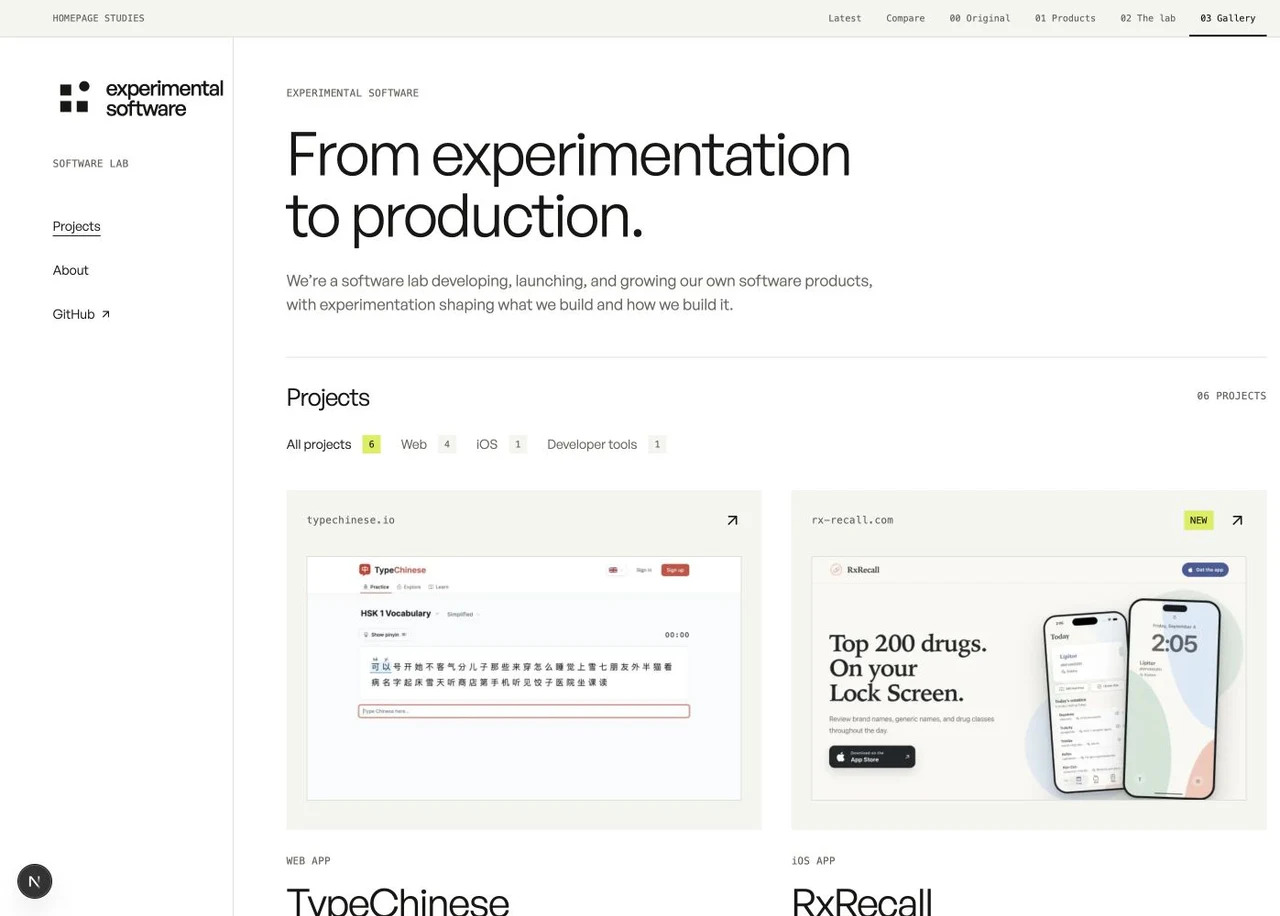
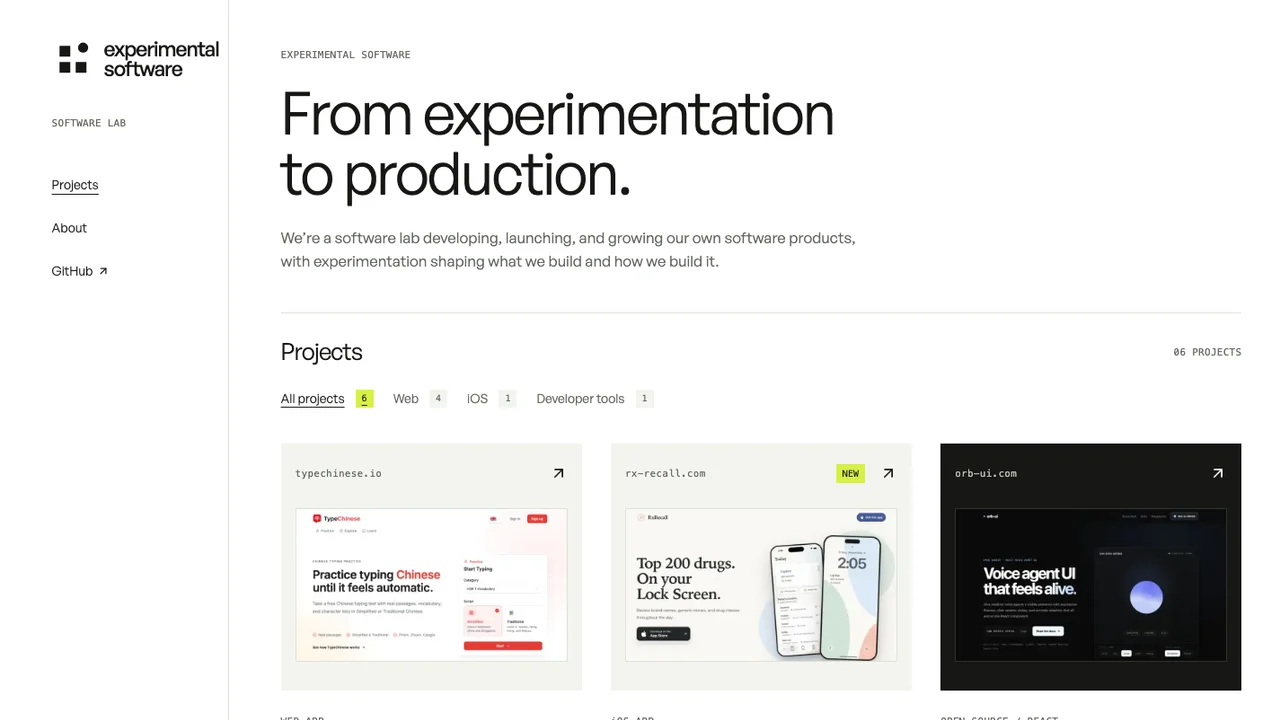
Give all projects equal gallery cards and update previews

diff --git a/src/components/marketing/catalog.ts b/src/components/marketing/catalog.ts
@@ -8,10 +8,9 @@ export type CatalogProject = {
   description: string;
   href: string;
   domain: string;
-  placement: "main" | "additional";
   newRelease?: boolean;
-  image?: string;
-  alt?: string;
+  image: string;
+  alt: string;
 };
 
 // Display order reflects the catalog, not a ranking or an internal maintenance status.
@@ -25,9 +24,8 @@ export const catalog: CatalogProject[] = [
       "Chinese typing practice with vocabulary, real passages, and support for Simplified and Traditional Chinese.",
     href: "https://typechinese.io/",
     domain: "typechinese.io",
-    placement: "main",
-    image: "/marketing/projects/typechinese.webp",
-    alt: "TypeChinese’s Chinese typing practice screen with vocabulary and pinyin hints",
+    image: "/marketing/projects/typechinese-home.webp",
+    alt: "TypeChinese’s landing page introducing Chinese typing practice",
   },
   {
     id: "rxrecall",
@@ -38,7 +36,6 @@ export const catalog: CatalogProject[] = [
       "An iOS study app for pharmacy students, with drug-name review on the Lock Screen and a searchable drug library.",
     href: "https://rx-recall.com/",
     domain: "rx-recall.com",
-    placement: "main",
     newRelease: true,
     image: "/marketing/projects/rxrecall.webp",
     alt: "RxRecall’s product page showing its Today screen and a Lock Screen widget preview",
@@ -52,7 +49,6 @@ export const catalog: CatalogProject[] = [
       "An open-source React component library for voice agents, with expressive visuals and provider integrations.",
     href: "https://orb-ui.com/",
     domain: "orb-ui.com",
-    placement: "main",
     image: "/marketing/projects/orb-ui.webp",
     alt: "Orb UI’s live voice demo with an animated cloud orb and theme controls",
   },
@@ -64,17 +60,19 @@ export const catalog: CatalogProject[] = [
     description: "Test and compare keyboard layouts, including Dvorak and Colemak.",
     href: "https://keyboard.experimental.software/",
     domain: "keyboard.experimental.software",
-    placement: "additional",
+    image: "/marketing/projects/keyboard.webp",
+    alt: "Keyboard Layout Tester with layout choices, typing practice, and an on-screen keyboard",
   },
   {
     id: "flights-currency",
     name: "Google Flights Currency",
     category: "Web",
     format: "BROWSER EXTENSION",
-    description: "View flight prices in local currency on Google Flights.",
+    description: "Keep Google Flights prices in USD instead of changing with your location.",
     href: "https://chromewebstore.google.com/detail/google-flights-currency-s/nameliafoadmpledepdbcgnogcnfiemo",
     domain: "Chrome Web Store",
-    placement: "additional",
+    image: "/marketing/projects/flights-currency.webp",
+    alt: "Google Flights Currency Setter’s published artwork with its name and airplane icon",
   },
   {
     id: "badminton",
@@ -85,6 +83,7 @@ export const catalog: CatalogProject[] = [
       "A badminton racket database for comparing specifications, prices, and popularity.",
     href: "https://badminton.fyi/",
     domain: "badminton.fyi",
-    placement: "additional",
+    image: "/marketing/projects/badminton-detail.webp",
+    alt: "A badminton.fyi racket profile with specifications and price information",
   },
 ];

diff --git a/src/components/marketing/ProjectCatalog.tsx b/src/components/marketing/ProjectCatalog.tsx
@@ -28,18 +28,16 @@ function ProjectCard({
             {project.newRelease && <span className="catalog-new">NEW</span>}
             <ArrowUpRight size={20} aria-hidden="true" />
           </div>
-          {project.image && (
-            <div className={`direction-image direction-image-${project.id}`}>
-              <Image
-                src={project.image}
-                alt={project.alt ?? project.name}
-                width={1280}
-                height={720}
-                sizes="(max-width: 760px) calc(100vw - 80px), (max-width: 1279px) 34vw, 25vw"
-                priority={priority}
-              />
-            </div>
-          )}
+          <div className={`direction-image direction-image-${project.id}`}>
+            <Image
+              src={project.image}
+              alt={project.alt}
+              width={1280}
+              height={720}
+              sizes="(max-width: 760px) calc(100vw - 80px), (max-width: 1279px) 34vw, 25vw"
+              priority={priority}
+            />
+          </div>
         </div>
         <div className="gallery-project-copy">
           <p className="direction-label">{project.format}</p>
@@ -59,8 +57,6 @@ export function ProjectCatalog() {
   const visible = catalog.filter(
     (project) => filter === "All projects" || project.category === filter,
   );
-  const mainProjects = visible.filter((project) => project.placement === "main");
-  const moreProjects = visible.filter((project) => project.placement === "additional");
 
   return (
     <>
@@ -96,7 +92,7 @@ export function ProjectCatalog() {
       </div>
       <div id="project-results">
         <div className="gallery-grid">
-          {mainProjects.map((project) => (
+          {visible.map((project) => (
             <ProjectCard
               key={project.id}
               project={project}
@@ -104,28 +100,6 @@ export function ProjectCatalog() {
             />
           ))}
         </div>
-        {moreProjects.length > 0 && (
-          <section className="catalog-more" aria-labelledby="more-projects-title">
-            <div className="catalog-more-heading">
-              <h2 id="more-projects-title">More projects</h2>
-              <span className="direction-label">
-                {String(moreProjects.length).padStart(2, "0")} PROJECTS
-              </span>
-            </div>
-            {moreProjects.map((project) => (
-              <article key={project.id}>
-                <a href={project.href} aria-label={`Explore ${project.name}`}>
-                  <div>
-                    <span className="direction-label">{project.format}</span>
-                    <h3>{project.name}</h3>
-                    <p>{project.description}</p>
-                  </div>
-                  <ArrowUpRight size={24} aria-hidden="true" />
-                </a>
-              </article>
-            ))}
-          </section>
-        )}
       </div>
     </>
   );

diff --git a/src/components/marketing/gallery-home.css b/src/components/marketing/gallery-home.css
@@ -16,8 +16,7 @@
   font-size: 17px;
   margin-top: 26px;
 }
-.catalog-home .catalog-heading,
-.catalog-home .catalog-more-heading {
+.catalog-home .catalog-heading {
   display: flex;
   align-items: center;
   justify-content: space-between;
@@ -27,8 +26,7 @@
   border-top: 1px solid var(--border);
   padding-top: 28px;
 }
-.catalog-home .catalog-heading h2,
-.catalog-home .catalog-more-heading h2 {
+.catalog-home .catalog-heading h2 {
   font-size: 26px;
 }
 .catalog-home .catalog-toolbar {
@@ -58,6 +56,10 @@
   min-height: 54px;
   padding-bottom: 24px;
 }
+.catalog-home .gallery-project-topline > .direction-label {
+  min-width: 0;
+  overflow-wrap: anywhere;
+}
 .catalog-home .direction-image {
   aspect-ratio: 16 / 9;
 }
@@ -76,9 +78,6 @@
   }
   .catalog-home .gallery-project-visual {
     padding-inline: 16px;
-  }
-  .catalog-home .gallery-project-copy h3 {
-    font-size: 36px;
   }
 }
 .catalog-home .gallery-project-copy {
@@ -103,39 +102,13 @@
   margin-top: auto;
   padding-block: 7px;
 }
-.catalog-home .catalog-more {
-  padding-bottom: 60px;
-}
-.catalog-home .catalog-more-heading {
-  padding-block: 28px;
-  border-top: 1px solid var(--border);
-}
-.catalog-home .catalog-more article {
-  border-top: 1px solid var(--border);
-}
-.catalog-home .catalog-more article > a {
-  display: flex;
-  align-items: center;
-  justify-content: space-between;
-  gap: 24px;
-  padding-block: 28px;
-}
-.catalog-home .catalog-more h3 {
-  font-size: 26px;
-  line-height: 1.15;
-  margin-top: 10px;
-}
-.catalog-home .catalog-more article p {
-  color: var(--muted-foreground);
-  font-size: 15px;
-  margin-top: 12px;
-}
-.catalog-home .catalog-more article > a > svg {
+.catalog-home .gallery-visit > svg {
   flex-shrink: 0;
 }
-.catalog-home .catalog-more a:hover h3 {
-  text-decoration: underline;
-  text-underline-offset: 5px;
+@media (min-width: 1280px) {
+  .catalog-home .gallery-project-copy h3 {
+    font-size: 36px;
+  }
 }
 .catalog-home .gallery-about {
   grid-template-columns: 0.7fr 1.3fr;
@@ -173,8 +146,7 @@
   .catalog-home .catalog-heading {
     padding-top: 24px;
   }
-  .catalog-home .catalog-heading h2,
-  .catalog-home .catalog-more-heading h2 {
+  .catalog-home .catalog-heading h2 {
     font-size: 24px;
   }
   .catalog-home .catalog-toolbar > div {
@@ -186,12 +158,6 @@
   }
   .catalog-home .gallery-project-copy h3 {
     font-size: 36px;
-  }
-  .catalog-home .catalog-more {
-    padding-bottom: 38px;
-  }
-  .catalog-home .catalog-more h3 {
-    font-size: 25px;
   }
   .catalog-home .gallery-about {
     display: block;

diff --git a/src/app/directions/page.tsx b/src/app/directions/page.tsx
@@ -34,11 +34,11 @@ const directions = [
     title: "The Gallery / updated",
     purpose: "Let the work speak first.",
     description:
-      "The selected direction, updated with the agreed company language. Three equally sized project cards, TypeChinese first, RxRecall marked New, and more projects below.",
-    structure: "Introduction → main projects → more projects → the lab",
+      "The selected direction, updated with the agreed company language. Six equally sized project cards, TypeChinese first, and RxRecall marked New.",
+    structure: "Introduction → project gallery → the lab",
     action: "Browse and open a project",
     image: "gallery",
-    alt: "Gallery homepage with side navigation and a visual collection of projects",
+    alt: "Gallery homepage with an introduction and a visual collection of equally sized project cards",
   },
 ];
 
@@ -119,7 +119,7 @@ export default function DirectionsIndex() {
           <p>
             The Gallery is the selected foundation for the current homepage. Its updated
             copy leads with “From experimentation to production.” Projects receive
-            similar prominence, with TypeChinese first and RxRecall marked New.
+            equal prominence, with TypeChinese first and RxRecall marked New.
           </p>
           <Link href="/" className="direction-text-link">
             Open the current homepage <ArrowUpRight size={18} aria-hidden="true" />

diff --git a/docs/marketing-directions.md b/docs/marketing-directions.md
@@ -7,10 +7,10 @@ The Gallery is the selected foundation. The latest local homepage is at `/`, wit
 - Headline: **From experimentation to production.**
 - Company category: **software lab**.
 - The shared introduction and About paragraph are in `src/lib/brand-copy.ts` and documented at `/brand#language`.
-- Three main projects have equally sized cards, in this order: TypeChinese, RxRecall, Orb UI.
+- All six projects use the same image-led card layout, in this order: TypeChinese, RxRecall, Orb UI, Keyboard Layout Tester, Google Flights Currency, badminton.fyi.
 - RxRecall carries a small **New** label.
-- Keyboard Layout Tester, Google Flights Currency, and badminton.fyi appear under **More projects**, with descriptions and direct links. badminton.fyi is retained as a legacy project rather than a main product.
-- **Projects** is the catalog and navigation term. Filters cover all six entries and narrow both the main cards and the additional list.
+- badminton.fyi keeps its **Legacy / Database** label and the same visual prominence as every other project.
+- **Projects** is the catalog and navigation term. Filters narrow the unified six-project grid.
 - Internal revenue, founder biography, and temporary maintenance priorities are not part of the public company copy.
 
 The visual system remains Outlier + White Room 1.1: General Sans Regular for headings and body, General Sans Medium for the wordmark, Meslo LG S for labels, −0.03em headline tracking, and −0.045em wordmark tracking.
@@ -34,9 +34,9 @@ All `/directions` routes are `noindex, nofollow` and omitted from the sitemap. T
 
 `src/components/marketing/GalleryHome.tsx` renders the page. `ProjectCatalog.tsx` provides the local filters, and `catalog.ts` holds the public project descriptions, order, destinations, media, and release marker.
 
-All project links and descriptions render in the initial HTML. The main entries link directly to each product website; there is no intermediate page required to reach a product.
+All project links and descriptions render in the initial HTML. Each card links directly to the project website or extension listing; there is no intermediate page required to reach a project.
 
-The screenshots in `public/marketing/projects/` come from the live product websites. See that directory's README for source URLs and capture notes. RxRecall's public presentation includes an app screenshot and its site's illustrated Lock Screen preview. The company site does not invent product interfaces.
+The images in `public/marketing/projects/` come from the live product websites and the published Chrome Web Store listing. TypeChinese uses its landing page. See that directory's README for source URLs and capture notes. RxRecall's public presentation includes an app screenshot and its site's illustrated Lock Screen preview. The company site does not invent product interfaces.
 
 The review hub thumbnails are in `public/marketing/directions/`. Marketing images are excluded from the repository text mirror so binary data does not inflate the editor bundle; component source and copy remain visible in `/code`.
 

diff --git a/public/marketing/projects/README.md b/public/marketing/projects/README.md
@@ -1,11 +1,14 @@
 # Project screenshots
 
-Captured from the live, public interfaces on September 8, 2026 for the Experimental Software homepage layout studies. These are static screenshots, not embedded interactive demos. Optimized as WebP without changing the interface content.
+Captured from the live, public interfaces on September 8, 2026 for the Experimental Software homepage layout studies, with additional homepage images captured on September 16. These are static screenshots or published project artwork, not embedded interactive demos. Optimized as WebP without changing the interface content.
 
 - `orb-ui.webp`: https://orb-ui.com/ — live voice demo, cloud theme, simulated signal.
 - `typechinese.webp`: https://typechinese.io/practice/hsk-1-vocabulary/simplified — practice screen, pinyin enabled, before a typing session.
 - `badminton.webp`: https://badminton.fyi/ — searchable racket database, light theme.
 - `badminton-detail.webp`: https://badminton.fyi/rackets/yonex/astrox-100zz — racket profile, light theme.
 - `rxrecall.webp`: https://rx-recall.com/ — public homepage, including an actual Today app screenshot and the site's illustrated Lock Screen preview.
+- `typechinese-home.webp`: https://typechinese.io/ — landing page introducing Chinese typing practice, captured September 16. Used in the current Gallery; the practice-screen image remains for historical layout studies.
+- `keyboard.webp`: https://keyboard.experimental.software/ — layout choices, typing passage, and on-screen keyboard, captured September 16.
+- `flights-currency.webp`: https://chromewebstore.google.com/detail/google-flights-currency-s/nameliafoadmpledepdbcgnogcnfiemo — published extension artwork retrieved September 16. This is the listing's name-and-airplane graphic, not a screenshot of a currency selector. The current listing describes USD as the supported currency. Artwork refresh and a user-selectable currency are follow-up work in the extension project.
 
 Racket prices and product UI reflect the capture date. The homepage copy avoids treating captured prices as current offers. Follow the project links to use the live products.

diff --git a/docs/brand.md b/docs/brand.md
@@ -32,7 +32,7 @@ The reference is `/brand#language`, with shared copy in `src/lib/brand-copy.ts`.
 - Voice: company-focused, direct, deliberate, and ambitious. Use “we.” The company introduction does not name the founder or narrow the company to current project categories.
 - Navigation and catalog: **Projects**. A product is a project released for ongoing use; an experiment explores or tests an idea. This vocabulary does not require separate public sections or classify all small projects as experiments.
 - Core verbs: **develop, launch, and grow**; **develop and operate** for ongoing company responsibility. Research describes exploration.
-- The homepage gives TypeChinese, RxRecall, and Orb UI equal-sized entries, puts TypeChinese first, marks RxRecall as New, and keeps smaller projects accessible under More projects. badminton.fyi is now a legacy entry in More projects.
+- The homepage gives all six projects the same image-led card treatment, puts TypeChinese first, and marks RxRecall as New. badminton.fyi keeps its Legacy / Database label with equal visual prominence.
 
 The visual identity and typography remain White Room 1.1. The wording above replaces earlier marketing copy; historical layout studies retain their earlier copy for comparison.
 
